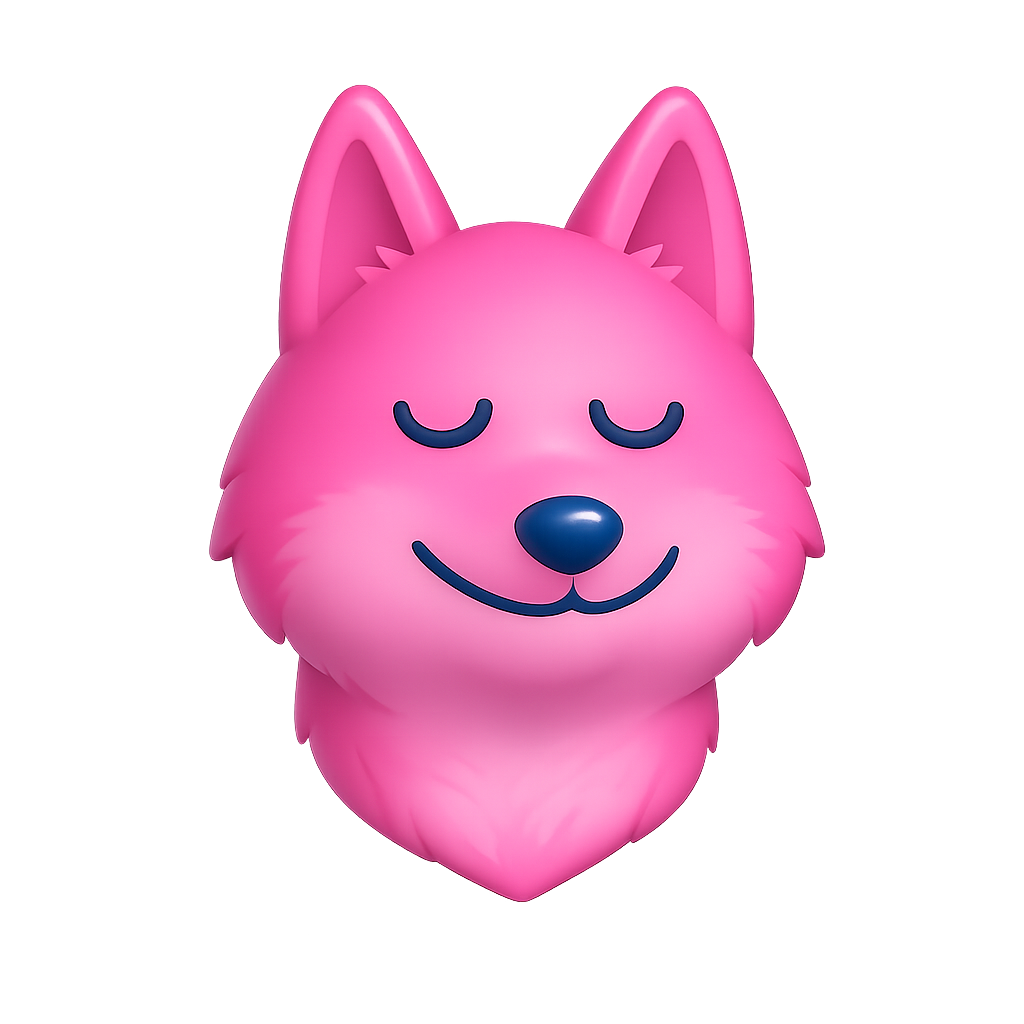
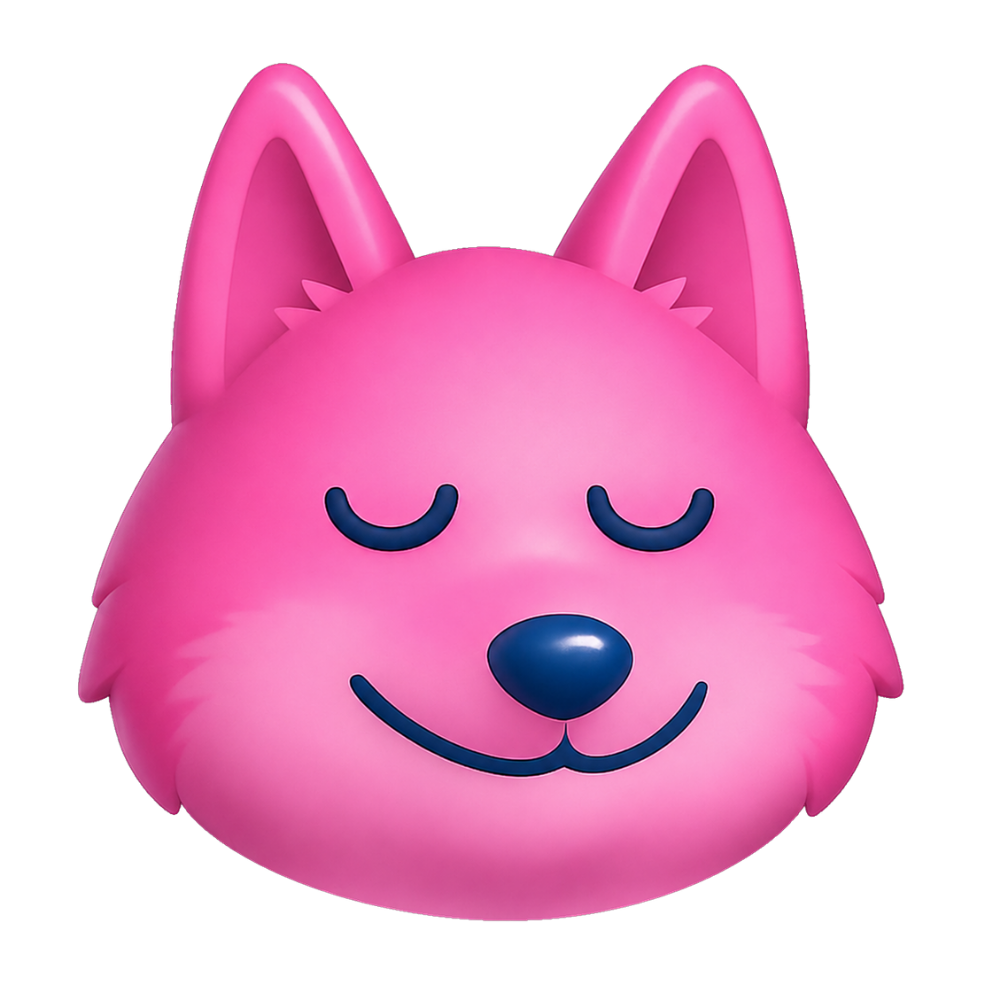
chore(qq): neuer Wolf-PNG + Tree-Bounce-Fix + TS-Cleanup + Star-Border-Polish
═══ 1. Neuer Pink-Wolf (Wolf-Wunsch) ═══

frontend/public/avatars/cozywolf/pink.png ersetzt durch neuen 1000×1000-PNG
(rosiger Pink-Ton, sanftere Wangen, leicht freundlicher Ausdruck). Wirkt
automatisch überall wo pink.png verwendet wird:
- TeamsRevealView Card-Back (Welcome-Sequenz)
- RoundMiniTree Wolf (Phase-Intros)
- QQProgressTree Wolf (Pause + Rules)

═══ 2. ProgressTree-Wolf bouncen entfernt (Wolf-Wunsch) ═══

'Lass den wolf bitte nicht bouncen im progress tree oder wenn dann nur den
kopf im kreis — wenn der kreis bounced auf der linie sieht's komisch aus,
weil die linie ja fix ist'.

Outer-Container: animation-Property komplett entfernt (vorher qqWolfBob
infinite + roundMiniHop bei Phase-Wechsel). Kreis sitzt jetzt fix auf der
Linie und slidet horizontal via existierender transition. KOPF (innere img)
wackelt subtil über neuen Keyframe qqWolfHeadBob (translateY ±4% + rotate
±2°, 1.6s cycle) — alive-Feeling ohne dass der Kreis von der Linie abhebt.
2 Stellen aktualisiert (QQBeamerPage RoundMiniTree + QQProgressTree main).

═══ 3. Pre-existing TS-Errors gefixt (Wolf-Wunsch 'einmal aufräumen') ═══

5 Errors die immer bei jedem TS-Check aufpoppten — jetzt alle weg:

- QQBuiltinSlide.tsx + QQCustomSlide.tsx: MOCK_STATE_BASE-Literal hatte
  ~39 fehlende Felder gegen QQStateUpdate (Type wächst kontinuierlich
  mit neuen Mechaniken). Pragmatischer Cast `as unknown as QQStateUpdate`
  — die Mocks bedienen nur Render-Pfade für Slide-Previews, nicht volle
[…]

diff --git a/frontend/src/pages/QQBeamerPage.tsx b/frontend/src/pages/QQBeamerPage.tsx
@@ -6372,8 +6372,9 @@ function RoundMiniTree({ state: s, catColor }: { state: QQStateUpdate; catColor:
         );
       })}
 
-      {/* Wolf-Avatar — wartet auf Seiten-Entrance, springt dann in einem Bogen
-          zum neuen Dot. 2026-05-09: pink.png + continuous Bounce-Loop. */}
+      {/* Wolf-Avatar — sitzt fix auf der Linie, slidet horizontal zum nächsten
+          Dot. 2026-05-09 v2 (Wolf 'kreis darf nicht bouncen, linie ist fix'):
+          outer-Bounce/Hop entfernt; KOPF (innen) wackelt subtil. */}
       <div style={{
         position: 'absolute', top: '50%', left: wolfLeft,
         width: WOLF, height: WOLF, borderRadius: '50%',
@@ -6382,9 +6383,6 @@ function RoundMiniTree({ state: s, catColor }: { state: QQStateUpdate; catColor:
         boxShadow: `0 0 0 4px ${catColor}40, 0 6px 14px ${catColor}55`,
         transform: 'translate(-50%, -50%)',
         transition: 'left 560ms cubic-bezier(0.34, 1.25, 0.64, 1), border-color 400ms ease, box-shadow 400ms ease',
-        animation: hopping
-          ? 'roundMiniHop 560ms var(--qq-ease-smooth) both'
-          : 'qqWolfBob 1.4s ease-in-out infinite',
         zIndex: 2,
         display: 'flex', alignItems: 'center', justifyContent: 'center',
         overflow: 'hidden',
@@ -6396,6 +6394,7 @@ function RoundMiniTree({ state: s, catColor }: { state: QQStateUpdate; catColor:
           style={{
             width: '94%', height: '94%', objectFit: 'contain',
             filter: 'drop-shadow(0 1px 2px rgba(0,0,0,0.55))',
+            animation: 'qqWolfHeadBob 1.6s ease-in-out infinite',
           }}
         />
       </div>
@@ -17602,10 +17601,14 @@ export function PausedView({ state: s, mode = 'pause' }: { state: QQStateUpdate;
           isolation: 'isolate',
         }}>
           {!isEsc && (
+            // 2026-05-09 v2 (Wolf 'sparkle etwas zu hoch — dezenter und schneller'):
+            // alpha 0.9→0.45 (deutlich dezenter), rotation 4.5s→2.8s (schneller),
+            // gradient-stops weicher (65/80/95 statt 70/80/90) für sanften Verlauf
+            // statt harter Kante.
             <div aria-hidden style={{
               position: 'absolute', inset: '-50%', zIndex: 0,
-              background: 'conic-gradient(from 0deg, transparent 0% 70%, rgba(236,72,153,0.9) 80%, transparent 90% 100%)',
-              animation: 'qqStarBorderSpin 4.5s linear infinite',
+              background: 'conic-gradient(from 0deg, transparent 0% 65%, rgba(236,72,153,0.45) 80%, transparent 95% 100%)',
+              animation: 'qqStarBorderSpin 2.8s linear infinite',
               pointerEvents: 'none',
             }} />
           )}

diff --git a/frontend/src/qqShared.ts b/frontend/src/qqShared.ts
@@ -159,11 +159,19 @@ export const QQ_BEAMER_CSS = `
     45%  { transform: translate(-50%, -115%); }
     100% { transform: translate(-50%, -50%); }
   }
-  /* 2026-05-09 (Wolf): Continuous Bounce-Loop für Pink-Wolf im Progress-Tree —
-     leichtes Hüpfen über aktuellem Dot, immer wenn der Tree sichtbar ist. */
+  /* 2026-05-09 v2 (Wolf 'kreis darf nicht bouncen — linie ist fix'): Outer
+     Bounce entfernt. qqWolfBob bleibt als Legacy-Keyframe (falls noch wo
+     verlinkt), wird aber nicht mehr genutzt. Stattdessen: qqWolfHeadBob
+     animiert NUR das innere Wolf-Bild — Kreis sitzt fix auf der Linie. */
   @keyframes qqWolfBob {
     0%, 100% { transform: translate(-50%, -50%); }
     50%      { transform: translate(-50%, -68%); }
+  }
+  @keyframes qqWolfHeadBob {
+    0%, 100% { transform: translateY(0) rotate(0deg); }
+    25%      { transform: translateY(-4%) rotate(-2deg); }
+    50%      { transform: translateY(-2%) rotate(0deg); }
+    75%      { transform: translateY(-4%) rotate(2deg); }
   }
   @keyframes winnerPulse { 0%,100%{opacity:0.85;transform:scale(1)} 50%{opacity:1;transform:scale(1.04)} }
   @keyframes qqGlow { 0%,100%{filter:brightness(1)} 50%{filter:brightness(1.2)} }

diff --git a/frontend/src/components/QQProgressTree.tsx b/frontend/src/components/QQProgressTree.tsx
@@ -506,11 +506,11 @@ export default function QQProgressTree({
                 border: `${isMini ? 2 : 3}px solid ${wolfColor}`,
                 boxShadow: `0 0 0 ${isMini ? 3 : 4}px ${wolfColor}40, 0 6px 16px ${wolfColor}66`,
                 transform: 'translate(-50%, -50%)',
-                // Continuous Bob-Loop: Wolf hüpft sanft auf-und-ab. Bei Phase-
-                // Wechsel überschreibt der größere `roundMiniHop` für 620ms.
-                animation: hopping
-                  ? 'roundMiniHop 620ms var(--qq-ease-smooth) both'
-                  : 'qqWolfBob 1.4s ease-in-out infinite',
+                // 2026-05-09 v2 (Wolf 'kreis darf nicht bouncen, linie ist fix'):
+                // Outer-Bounce + roundMiniHop entfernt. Kreis sitzt fix auf der
+                // Linie, slidet horizontal zum nächsten Dot via transition. Der
+                // KOPF (innen) wackelt subtil via qqWolfHeadBob — alive-Feeling
+                // ohne dass der Kreis von der Linie abhebt.
                 transition: 'left 620ms cubic-bezier(0.34, 1.25, 0.64, 1), border-color 400ms ease, box-shadow 400ms ease',
                 zIndex: 3,
                 pointerEvents: 'none',
@@ -524,6 +524,7 @@ export default function QQProgressTree({
                   style={{
                     width: '94%', height: '94%', objectFit: 'contain',
                     filter: 'drop-shadow(0 1px 2px rgba(0,0,0,0.55))',
+                    animation: 'qqWolfHeadBob 1.6s ease-in-out infinite',
                   }}
                 />
               </div>

diff --git a/frontend/src/components/QQBuiltinSlide.tsx b/frontend/src/components/QQBuiltinSlide.tsx
@@ -21,7 +21,11 @@ const MOCK_GRID = Array.from({ length: MOCK_GRID_SIZE }, (_, r) =>
   }))
 );
 
-const MOCK_STATE_BASE: QQStateUpdate = {
+// 2026-05-09 (TS-Cleanup): State-Mock für Slide-Preview. Da die Liste der
+// QQStateUpdate-Felder ständig wächst (~95 Felder), nutzen wir hier einen
+// pragmatischen Cast statt jedes neue Feld manuell zu mocken — diese Mocks
+// bedienen NUR die Preview-Render-Pfade, nicht die volle Game-Logik.
+const MOCK_STATE_BASE = {
   roomCode: 'DEMO',
   phase: 'LOBBY',
   setupDone: true,
@@ -76,7 +80,7 @@ const MOCK_STATE_BASE: QQStateUpdate = {
   muchoRevealStep: 0,
   zvzRevealStep: 0,
   cheeseRevealStep: 0,
-};
+} as unknown as QQStateUpdate;
 
 const MOCK_QUESTION_BASE = {
   id: 'preview',

diff --git a/frontend/src/components/QQCustomSlide.tsx b/frontend/src/components/QQCustomSlide.tsx
@@ -115,7 +115,10 @@ const MOCK_GRID = Array.from({ length: MOCK_GRID_SIZE }, (_, r) =>
   }))
 );
 
-const MOCK_STATE_BASE: QQStateUpdate = {
+// 2026-05-09 (TS-Cleanup): siehe QQBuiltinSlide — pragmatischer Cast für
+// Slide-Preview-Mocks, da QQStateUpdate ständig wächst und Mock NUR den
+// Render-Pfad bedient.
+const MOCK_STATE_BASE = {
   roomCode: 'DEMO',
   phase: 'LOBBY',
   setupDone: true,
@@ -170,7 +173,7 @@ const MOCK_STATE_BASE: QQStateUpdate = {
   muchoRevealStep: 0,
   zvzRevealStep: 0,
   cheeseRevealStep: 0,
-};
+} as unknown as QQStateUpdate;
 
 const MOCK_QUESTION_BASE = {
   id: 'preview',

diff --git a/frontend/src/pages/QQModeratorPage.tsx b/frontend/src/pages/QQModeratorPage.tsx
@@ -2572,8 +2572,8 @@ function HostNotes({ state }: { state: QQStateUpdate }) {
 // ausser wenn schon Mit-Gewinner aktiv sind (forceOpen=true).
 function ModWinnerActionsToggle({ forceOpen, nonWinners, coWinners, roomCode, emit }: {
   forceOpen: boolean;
-  nonWinners: { id: string; name: string; color: string; avatarId: string }[];
-  coWinners: { id: string; name: string; color: string; avatarId: string }[];
+  nonWinners: { id: string; name: string; color: string; avatarId: string; emoji?: string }[];
+  coWinners: { id: string; name: string; color: string; avatarId: string; emoji?: string }[];
   roomCode: string;
   emit: (event: string, payload: any) => Promise<any>;
 }) {